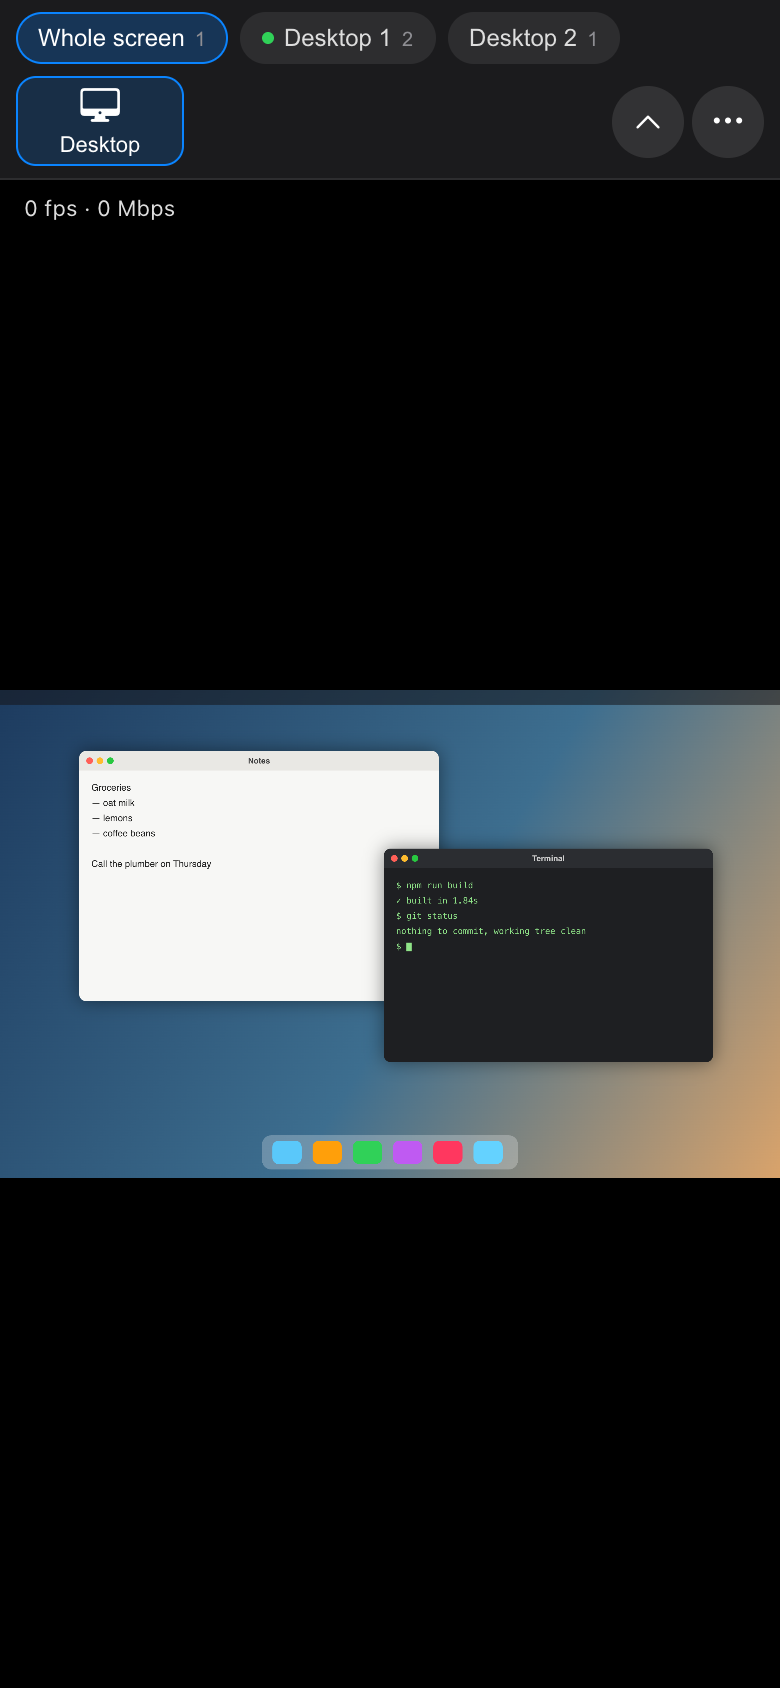
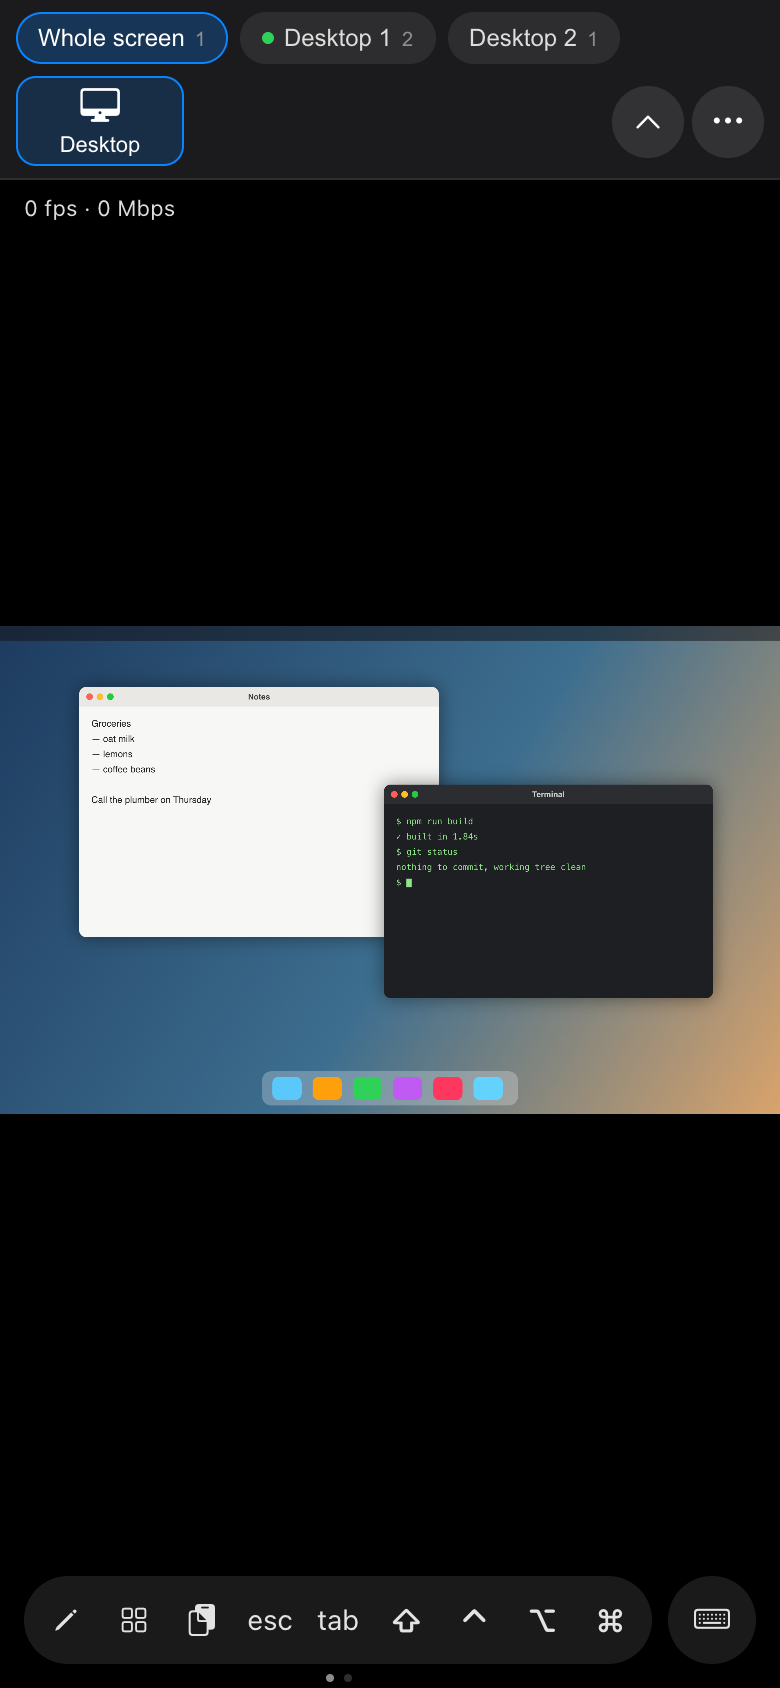
Docs: the capsule keys, Dock-style bring-forward, unlock in Activity and on members, fresh phone shots (the docs said a row of keys and left unlock out): README.md, README.zh-TW.md, docs/protocol.md, docs/multi-mac.md, docs/setup.md, docs/assets

Changed region(s): [[0.0, 0.5545, 1.0, 0.7085], [0.0, 0.3697, 1.0, 0.5545], [0.0308, 0.9242, 0.9846, 1.0]]

diff --git a/docs/protocol.md b/docs/protocol.md
@@ -150,7 +150,7 @@ Answered only from `127.0.0.1`/`::1`, to Host `127.0.0.1:<port>` or `localhost:<
 | ---------------------------------------------- | ----------------------------------------------------------------------------------------------------------------------------------------------------------------------------------------------------------------------------------------------------------------------------------- |
 | `GET /api/local/status`                        | `{version, users, admins, viewer: {username, since} \| null, sessions, publicOrigin \| null}`. `users` and `admins` count active accounts; `sessions` counts live sign-ins.                                                                                                         |
 | `POST /api/local/setup` `{username, password}` | 201 `{user}`: the first admin. 409 `{code: "ALREADY_SET_UP"}` once any account exists. 400 for a name with `< > "` or a password under 8 characters.                                                                                                                                |
-| `GET /api/local/activity?limit=50`             | `{items: [{at, kind, username, ip?, method?, machine?, reason?, seconds?, count?}]}`, newest first, at most 200. `kind` is `remote-open`, `remote-end`, `clipboard-read`, `clipboard-write` or `sign-in`; `machine` is another Mac a session was on; `count` is a run of the same clipboard use. |
+| `GET /api/local/activity?limit=50`             | `{items: [{at, kind, username, ip?, method?, machine?, reason?, seconds?, count?}]}`, newest first, at most 200. `kind` is `remote-open`, `remote-end`, `clipboard-read`, `clipboard-write`, `unlock` or `sign-in`; `machine` is another Mac a session was on; `count` is a run of the same clipboard use or unlock try. |
 | `GET /api/local/member`                        | `{state, hub}`: this Mac's link to another Mac it joined; `state` is `off`, `connecting`, `connected` or `removed` ([multi-mac.md](multi-mac.md)).                                                                                                                                  |
 | `POST /api/local/member/join` `{hub, code}`    | `{hub}` once joined; 400 for an address that is not `https://` or a code out of shape, 403 `REFUSED` for a wrong, used or old code, 502 or 504 when the other Mac cannot be reached.                                                                                           |
 | `POST /api/local/member/leave`                 | `{ok: true}`: the link closes and what it kept is deleted.                                                                                                                                                                                                                         |

diff --git a/README.md b/README.md
@@ -67,14 +67,19 @@ back, with touch modes made for a small screen.
   for the home. The window goes back as it was when you leave it. The Remote tab stays the
   whole screen.
 - **Your screen or one window.** Pick a whole display, a desktop (Space), a full-screen app or a
-  single window. The list is grouped by desktop, with thumbnails.
+  single window. The list is grouped by desktop, with thumbnails. A window on another desktop,
+  or one its app keeps closed in the background, comes up as a click on its Dock icon brings
+  it; when you leave or turn to another, it goes back out of sight as it was and the app that
+  was in front comes back.
 - **Asleep or locked.** Connecting wakes the Mac's display, and it stays on while you watch.
   A locked Mac asks for its password in a small window and unlocks; it locks again when you
   leave, or when the phone drops off the network.
 - **Made for a phone.** Three touch modes: tap where you want (direct), a trackpad, or a
   pointer you drag by a ring below it, so your finger never hides what it points at. Pinch to
-  zoom, or pick a size in the menu; when you tap a text field the keyboard comes up and the field is zoomed into view. A
-  row of keys a phone lacks (esc, tab, arrows, ⌘ ⌥ ⌃ ⇧, the Mac's desktops, Mission Control), a key panel in the keyboard's place
+  zoom, or pick a size in the menu; when you tap a text field the keyboard comes up and the field is zoomed into view. The
+  keys a phone lacks (esc, tab, arrows, ⌘ ⌥ ⌃ ⇧, the Mac's desktops, Mission Control) sit in
+  one capsule you slide sideways, with a round button beside it to call up or hide the
+  keyboard (a tablet fits them all at once). There is a key panel in the keyboard's place
   (editing keys, the Mac's shortcuts, a number pad, F1–F12), and a field to write a line,
   input method and all, and send it to the Mac's cursor. Held sideways, the tabs move to a
   rail on the right.
@@ -129,7 +134,8 @@ On the Mac, the setup assistant and Settings:
 
 These pictures come from fixtures: the web app's from `npm run shots`, where the "Mac screen"
 is drawn by the script, and the Mac app's from a debug build's snapshots, with a made-up
-address. No real screen was captured. On macOS 26 and later the app's panels and buttons are
+address. The animations under Features were recorded the same way, from the web app with
+made-up answers and made-up Mac windows. No real screen was captured. On macOS 26 and later the app's panels and buttons are
 Liquid Glass, which the snapshots do not draw.
 
 ## Requirements

diff --git a/docs/multi-mac.md b/docs/multi-mac.md
@@ -46,7 +46,8 @@ ways, each prefixed with `n` (4 bytes), so nothing from an earlier session is mi
   not open another for five minutes; **Pause** stops sharing until it resumes. Either way the
   hub shows the member as not sharing.
 - The member checks what the hub sends too: the same allow-list as for a page, the clipboard
-  at most once a second, and each clipboard use in its own log.
+  at most once a second, an unlock try at most once every 3 seconds, and each clipboard use
+  and unlock try in its own log.
 - Sessions are in both Macs' logs and Activity: on the hub with the member's name, on the
   member with the hub's address.
 

diff --git a/docs/setup.md b/docs/setup.md
@@ -89,7 +89,8 @@ For the Mac you connect to:
 2. **Permissions.** Castpane needs two, both in **System Settings › Privacy & Security**:
    - **Screen & System Audio Recording**, to capture the screen. macOS applies it only after
      the app restarts, so Castpane offers to restart itself.
-   - **Accessibility**, to post your clicks and keys.
+   - **Accessibility**, to post your clicks and keys, bring a window forward and, with Labs,
+     make a window the device's shape.
 
    The assistant shows each one's state live, with a button that opens the right pane.
 
